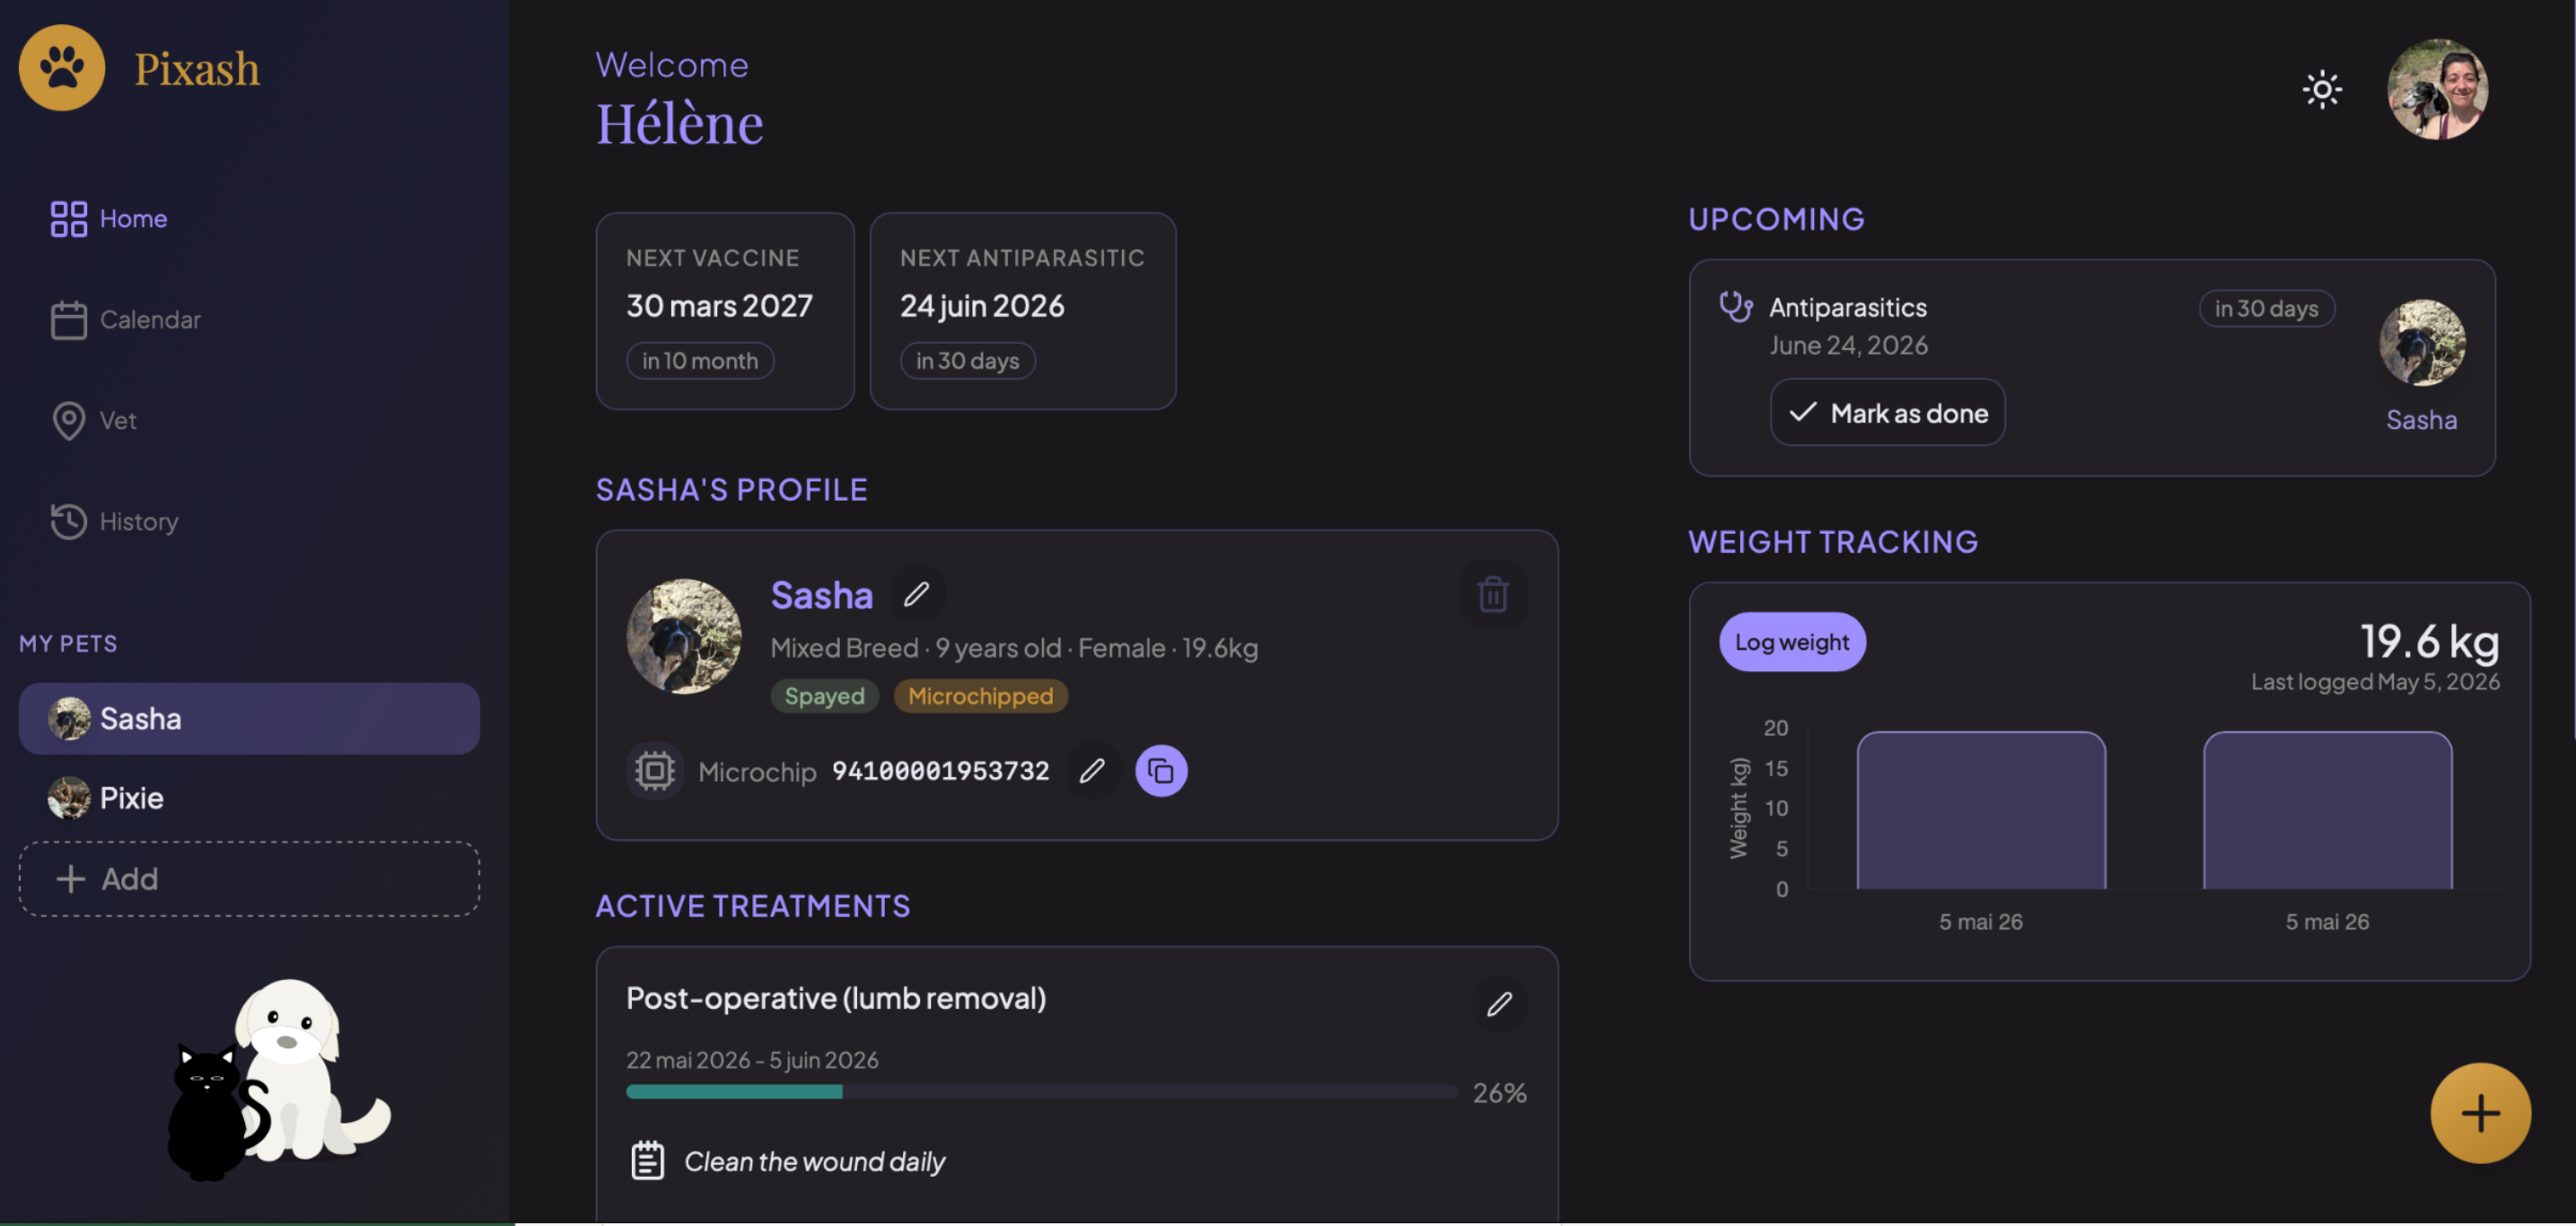
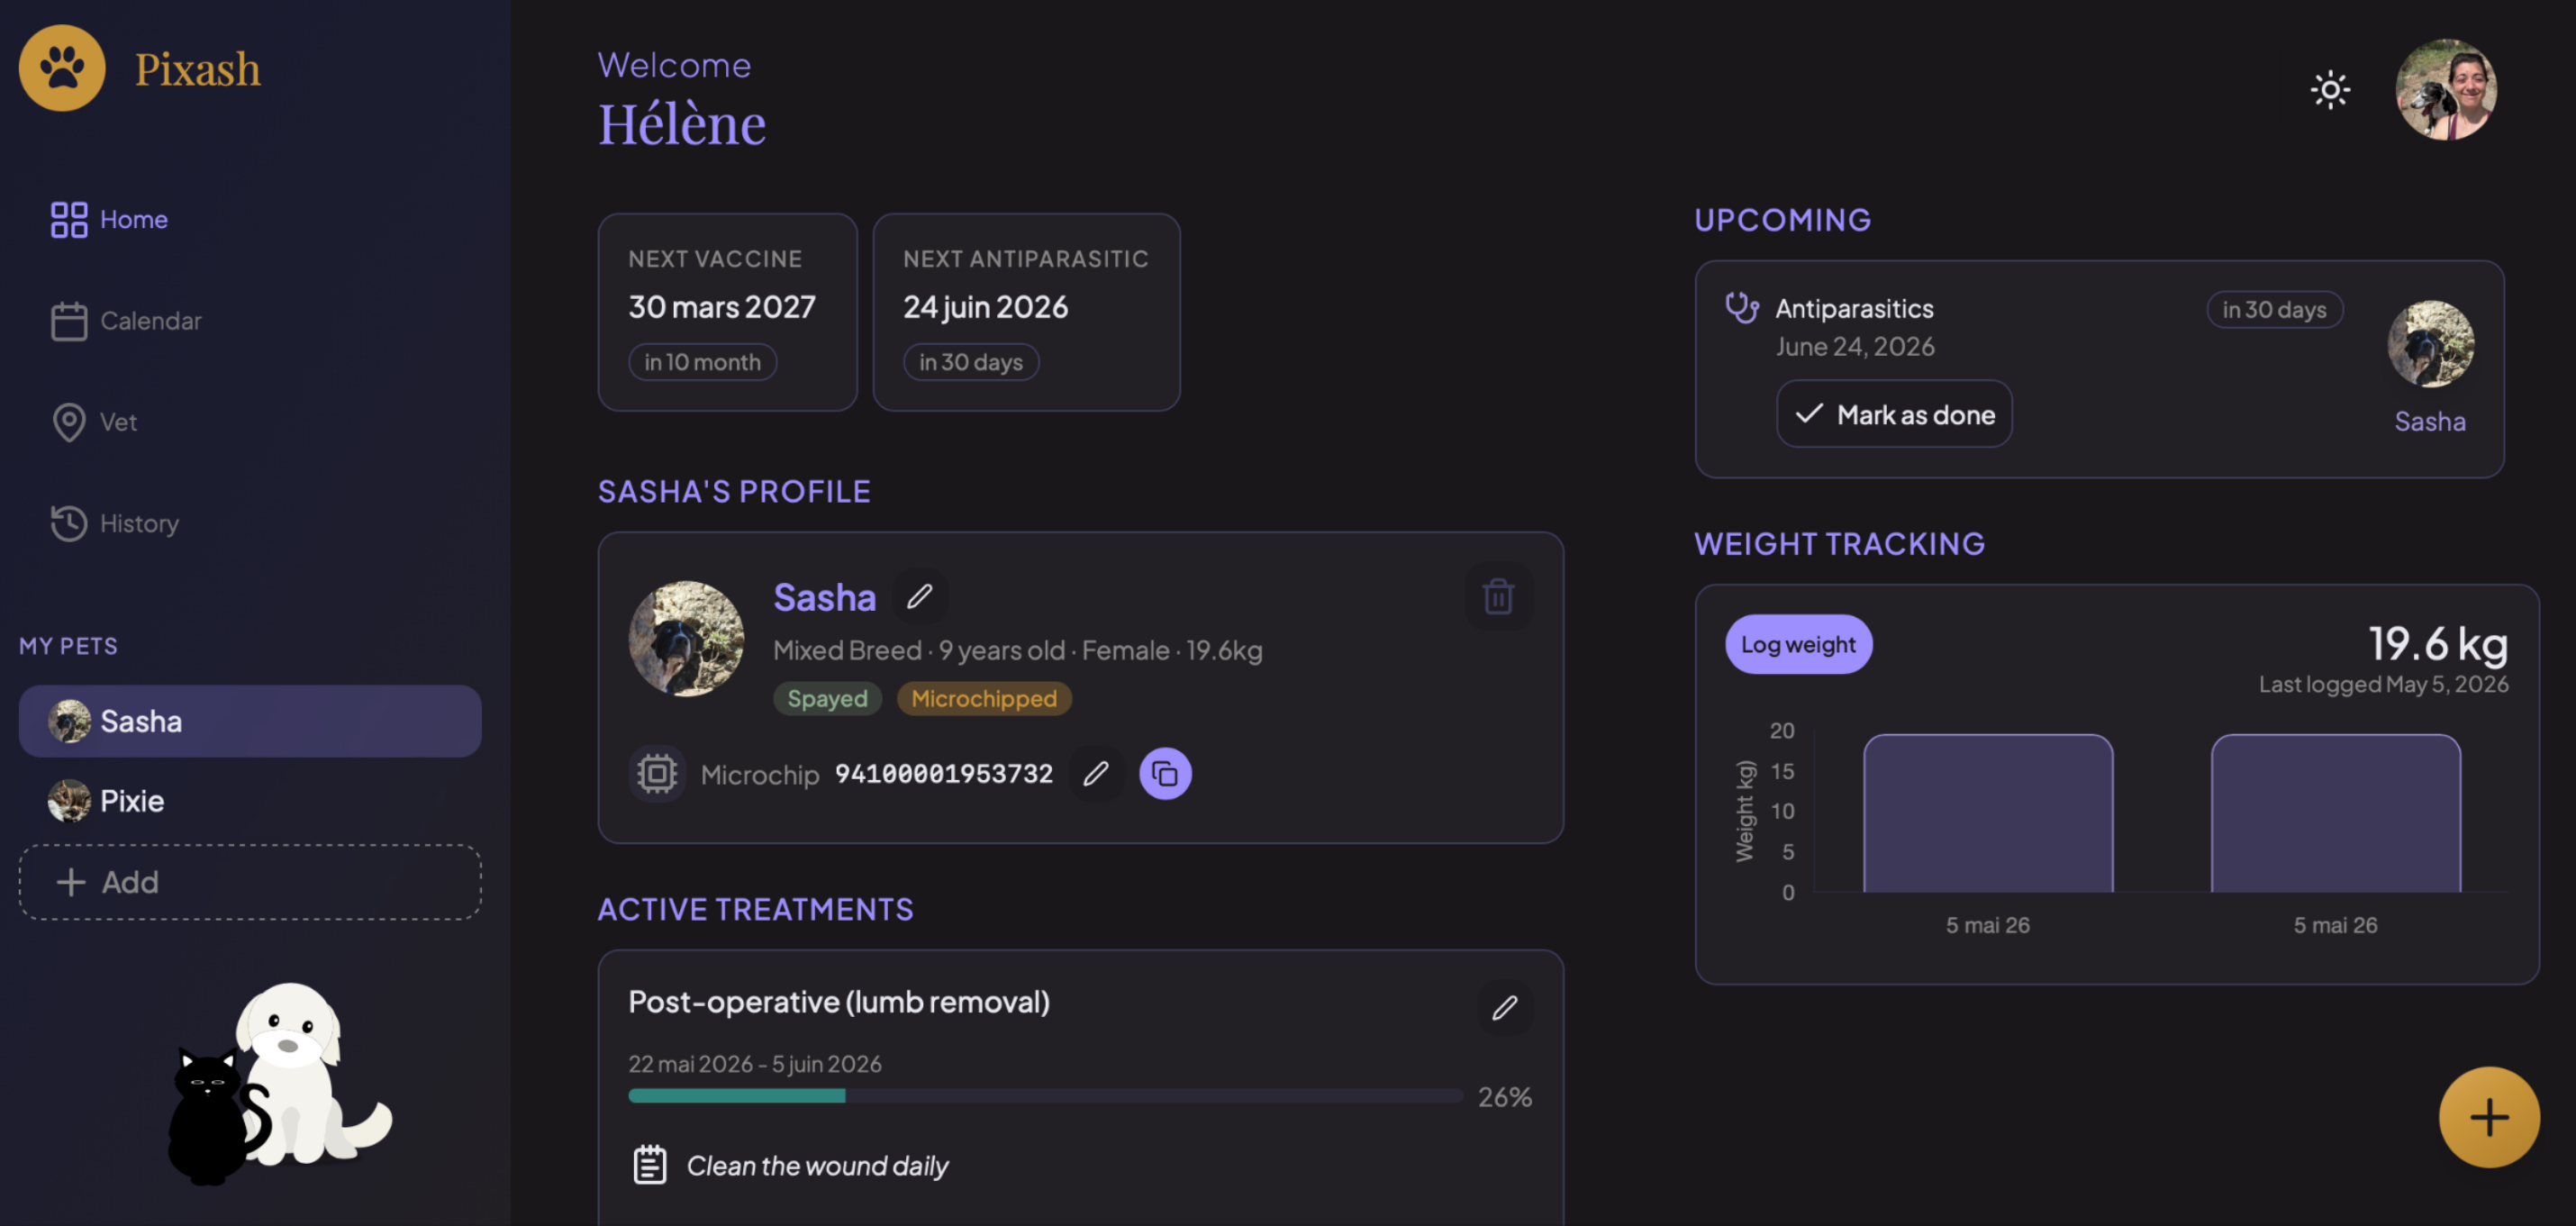
feat / added dark - light theme reactivity to portfolio screenshots

diff --git a/src/views/ContentView.vue b/src/views/ContentView.vue
@@ -1,4 +1,5 @@
 <script setup>
+import { useTheme } from '@/scripts/themeChecker.js';
 import { computed, watch } from 'vue';
 import { useRoute } from 'vue-router';
 import CertificationCard from '../components/CertificationCard.vue';
@@ -7,6 +8,7 @@ import SectionsCv from '../components/SectionsCv.vue';
 import { english, french, portfolio, spanish } from '../config/curriculum.js';
 
 const route = useRoute();
+const { theme } = useTheme();
 
 watch(
   () => route.params.lang,
@@ -43,7 +45,9 @@ const cv = computed(() => {
       <template #heading>{{ portfolio.title }}</template>
       <ul class="slider">
         <PortfolioCard v-for="project in portfolio.content" :key="project.name" class="card">
-          <template #screenshot><img :src="project.screenshot" alt=""></template>
+          <template #screenshot><img
+              :src="theme === 'light' && project.screenshotLight ? project.screenshotLight : project.screenshot"
+              alt=""></template>
           <template #heading>{{ project.name }}</template>
           <template #links>
             <a v-if="project.link" :href="project.link" class="icon-link" target="_blank" tabindex="0"

diff --git a/src/config/curriculum.js b/src/config/curriculum.js
@@ -2,9 +2,11 @@ import argosScreenshot from '../assets/screenshots/argos.png';
 import HappyPetScreenshot from '../assets/screenshots/happypet.png';
 import krismerakiScreenshot from '../assets/screenshots/krismeraki.png';
 import pixappScreenshot from '../assets/screenshots/pixapp.png';
+import pixashLight from '../assets/screenshots/pixash-light.png';
 import pixashScreenshot from '../assets/screenshots/pixash.png';
 import pokedexScreenshot from '../assets/screenshots/pokedex.png';
 import relappmidosScreenshot from '../assets/screenshots/relappmidos.png';
+import rollerscapeLight from '../assets/screenshots/rollerscape-light.png';
 import rollerscapeScreenshot from '../assets/screenshots/rollerscape.png';
 import starwarsScreenshot from '../assets/screenshots/starwars.png';
 import swsScreenshot from '../assets/screenshots/sws.png';
@@ -33,12 +35,14 @@ export const portfolio = {
     {
       name: "Pixash [In Progress]",
       screenshot: pixashScreenshot,
+      screenshotLight: pixashLight,
       code: "https://github.com/H3llynx/pixash",
       tags: ["Vue 3", "Composition API", "TypeScript", "TailwindCSS", "Firebase", "Mobile First"]
     },
     {
       name: "RollerScape",
       screenshot: rollerscapeScreenshot,
+      screenshotLight: rollerscapeLight,
       link: "https://h3llynx.github.io/rollerscape",
       code: "https://github.com/H3llynx/rollerscape",
       tags: ["React 19", "TypeScript", "TailwindCSS", "Supabase", "Geolocation API", "Responsive UI"]